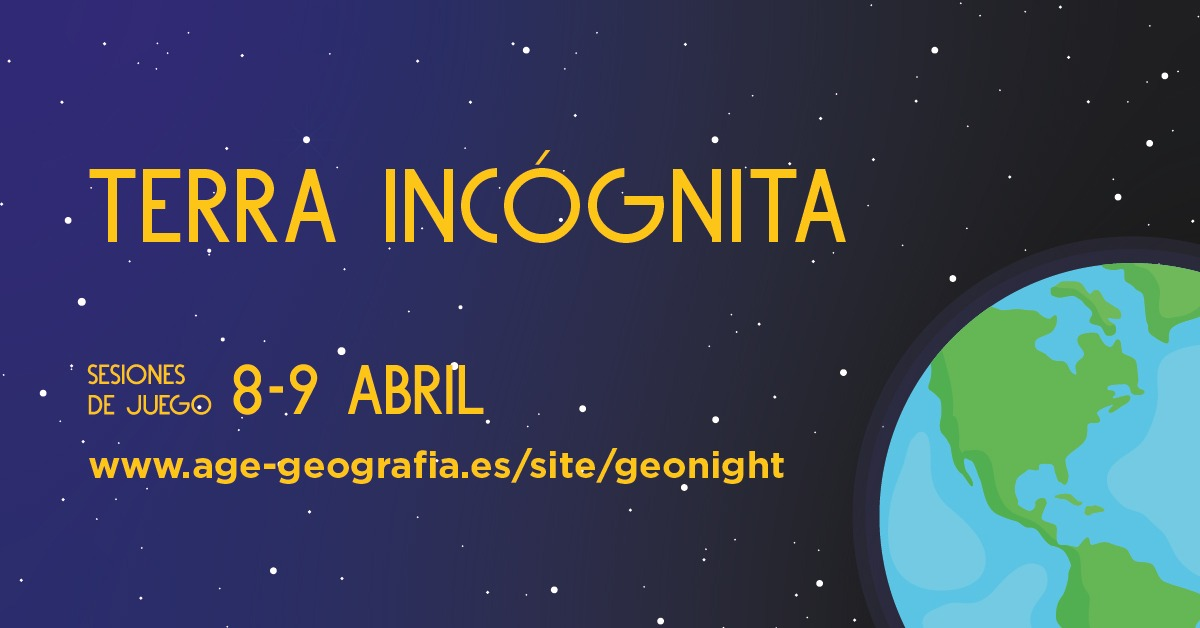
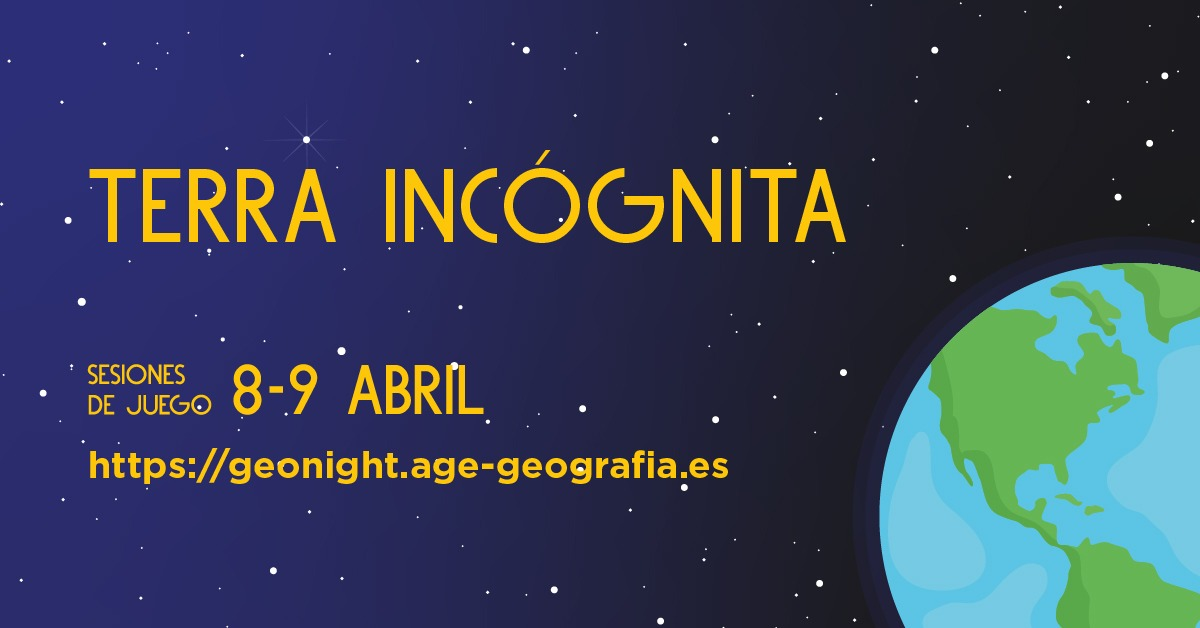
cambio de en meta

Changed region(s): [[0.0617, 0.6959, 0.6783, 0.7866], [0.1233, 0.6354, 0.1542, 0.6656], [0.1233, 0.5748, 0.1542, 0.6051]]

diff --git a/index.html b/index.html
@@ -4,18 +4,18 @@
 <head>
     <meta http-equiv="X-UA-Compatible" content="IE=edge">
     <meta name="viewport" content="width=device-width, initial-scale=1.0">
-    <link rel="shortcut icon" href="https://github.com/GeoVoluntarios-org/geonight/blob/main/assets/imgs/favicon.ico" type="image/x-icon">
+    <link rel="shortcut icon" href="https://geonight.age-geografia.es/assets/imgs/favicon.ico" type="image/x-icon">
     <!-- COMMON TAGS -->
     <meta charset="utf-8">
-    <title>GeoNight, la noche de la geaografía</title>
+    <title>GeoNight, la noche de la geografía</title>
     <!-- Search Engine -->
     <meta name="description" content="¿Quieres disfrutar con diferentes pruebas y concurso y demostrar cuanto sabes de geografía?">
-    <meta name="image" content="https://github.com/GeoVoluntarios-org/geonight/blob/main/assets/imgs/imagen-meta.jpeg">
+    <meta name="image" content="https://geonight.age-geografia.es/assets/imgs/imagen-meta.jpeg">
 
     <!-- Schema.org for Google -->
     <meta itemprop="name" content="GeoNight, la noche de la geografía">
     <meta itemprop="description" content="¿Quieres disfrutar con diferentes pruebas y un concurso y demostrar cuanto sabes de geografía?">
-    <meta itemprop="image" content="https://github.com/GeoVoluntarios-org/geonight/blob/main/assets/imgs/imagen-meta.jpeg">
+    <meta itemprop="image" content="https://geonight.age-geografia.es/assets/imgs/imagen-meta.jpeg">
     <!-- Twitter -->
     <meta name="twitter:card" content="summary with large image">
     <meta name="twitter:title" content="GeoNight, la noche de la geografía">
@@ -23,7 +23,7 @@
     <!-- Open Graph general (Facebook, Pinterest & Google+) -->
     <meta name="og:title" content="GeoNight, la noche de la geaografía">
     <meta name="og:description" content="¿Quieres disfrutar con diferentes pruebas y un concurso y demostrar cuanto sabes de geografía?">
-    <meta name="og:image" content="https://github.com/GeoVoluntarios-org/geonight/blob/main/assets/imgs/imagen-meta.jpeg">
+    <meta name="og:image" content="https://geonight.age-geografia.es/assets/imgs/imagen-meta.jpeg">
     <meta name="og:url" content="https://geonight.age-geografia.es/">
     <meta name="og:site_name" content="GeoNight">
     <meta name="og:type" content="website">
